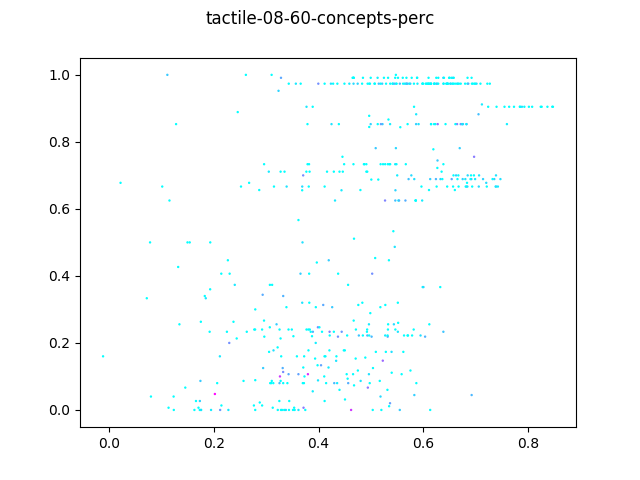
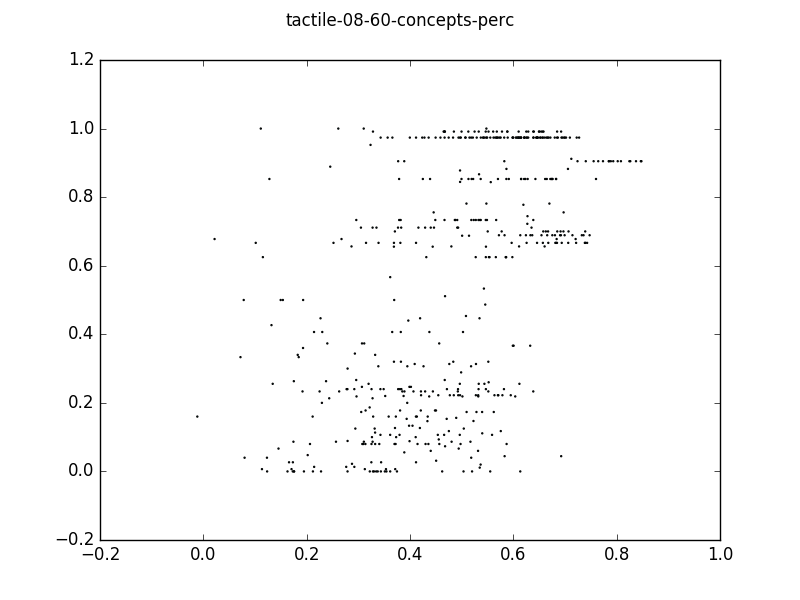
Jitter points; rescale Z axis to make things more visible

diff --git a/subgraphs/feature_fit.py b/subgraphs/feature_fit.py
@@ -12,18 +12,18 @@ import domain_feat_freq
 
 EMBEDDING_NAME = "mcrae" # McRae
 # EMBEDDING_NAME = "glove.6B.300d" # Wikipedia 2014 + Gigaword 5
-# EMBEDDING_NAME = "glove.840B.300d" # Common Crawl
-# INPUT = "../glove/%s.txt" % EMBEDDING_NAME
-INPUT = "./all/mcrae_vectors.txt"
+EMBEDDING_NAME = "glove.840B.300d" # Common Crawl
+INPUT = "../glove/%s.txt" % EMBEDDING_NAME
+# INPUT = "./all/mcrae_vectors.txt"
 
 FEATURES = "../mcrae/CONCS_FEATS_concstats_brm.txt"
 VOCAB = "./all/vocab.txt"
 EMBEDDINGS = "./all/embeddings.%s.npy" % EMBEDDING_NAME
 
-OUTPUT = "./all/feature_fit/mcrae_mcrae.txt"
-PEARSON = './all/pearson_corr/corr_mcrae_wikigiga.txt'
-WORDNET = './all/hier_clust/wordnet_match_mcrae.txt'
-GRAPH_DIR = './all/feature_fit/mcrae'
+OUTPUT = "./all/feature_fit/mcrae_cc.txt"
+PEARSON = './all/pearson_corr/corr_mcrae_cc.txt'
+WORDNET = './all/hier_clust/wordnet_match_cc.txt'
+GRAPH_DIR = './all/feature_fit/cc'
 
 Feature = namedtuple("Feature", ["name", "concepts", "wb_label", "wb_maj",
                                  "wb_min", "br_label", "disting"])
@@ -216,13 +216,29 @@ def produce_unified_graph(vocab, features, feature_data):
         ys.append(concept_wordnet[concept])
         zs.append(np.mean(weights))
 
+    # Resize Z values
+    zs = np.array(zs)
+    zs = (zs - zs.min()) / (zs.max() - zs.min())
+
+    # HACK: trying to make this approximately normal so that I can easily see
+    # the differences between points. shave off high outliers.
+    zs = np.clip(zs, 0, 0.7)
+    zs = zs / zs.max()
+
     # Render Z axis using colors
     colormap = plt.get_cmap("cool")
-    print(zs)
     cs = colormap(zs)
 
-    plt.scatter(xs, ys, c=cs)
-    plt.show()
+    # Jitter points
+    xs += np.random.randn(len(xs)) * 0.01
+    ys += np.random.randn(len(ys)) * 0.01
+
+    fig = plt.figure()
+    ax = fig.add_subplot(111)
+    ax.scatter(xs, ys, c=cs, alpha=0.8)
+
+    fig_path = os.path.join(GRAPH_DIR, "unified.png")
+    fig.savefig(fig_path)
 
 
 def main():
